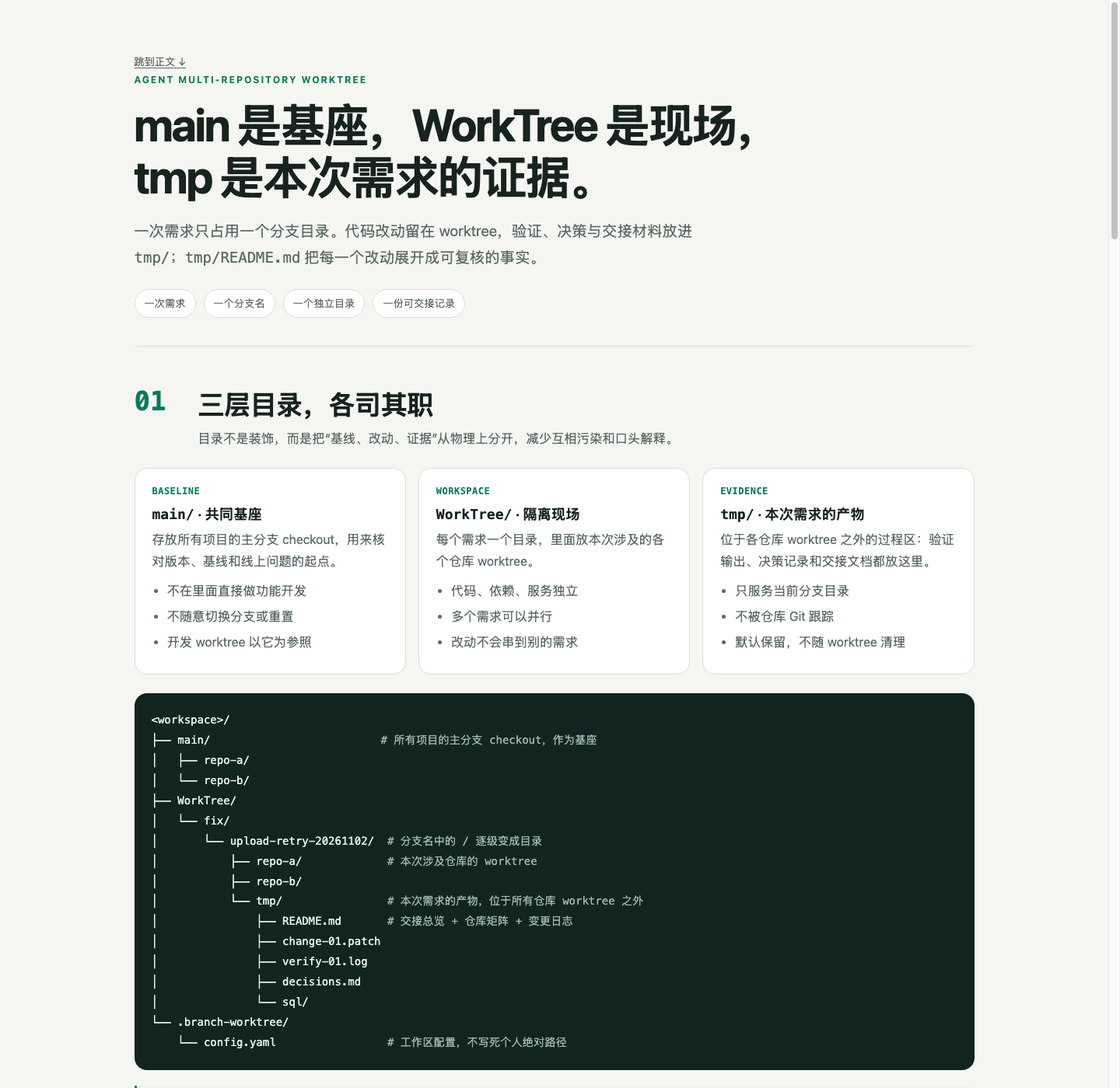
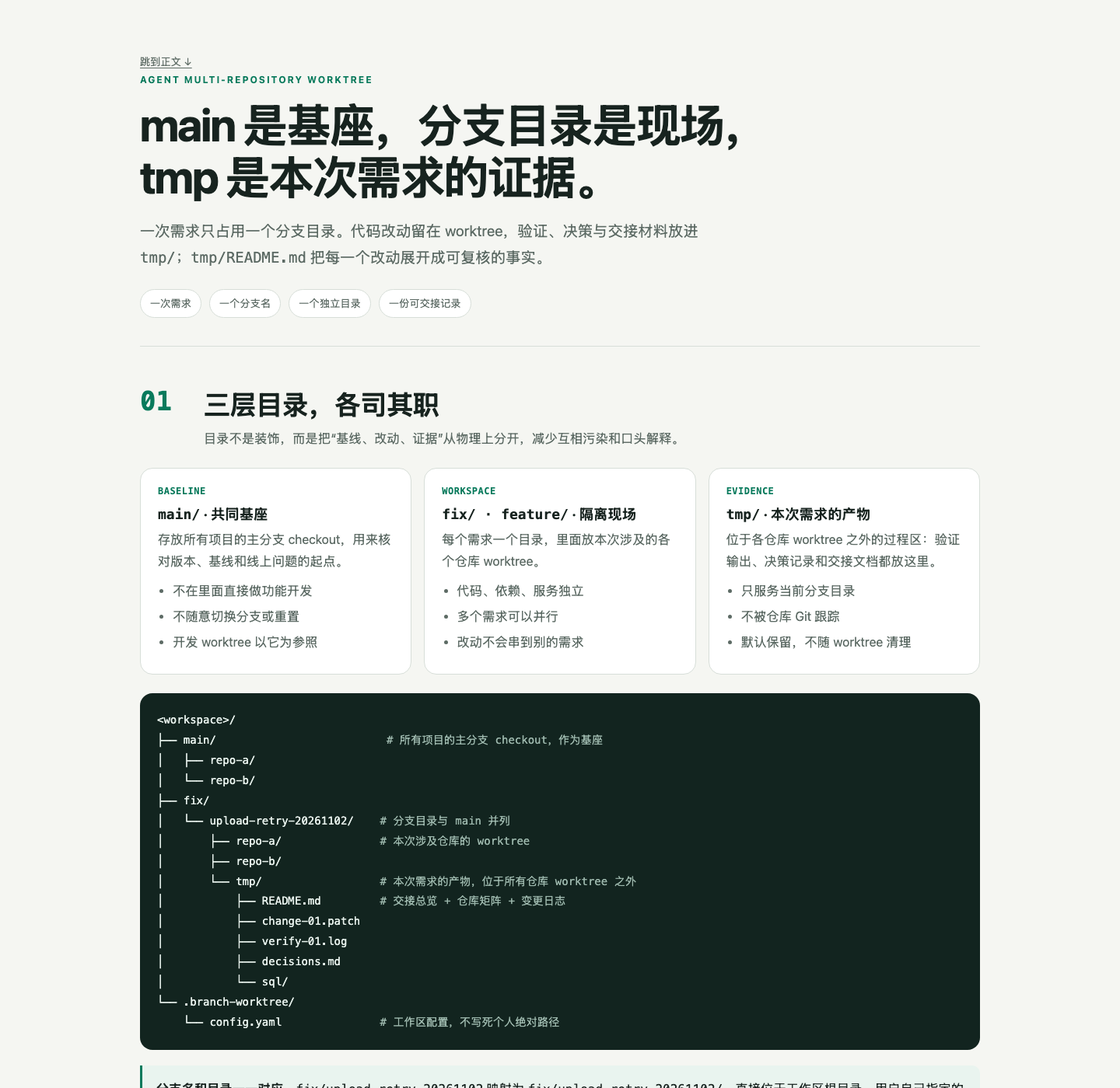
docs: default to root-level worktree layout

diff --git a/docs/visualizations/standard-workflow.html b/docs/visualizations/standard-workflow.html
@@ -3,7 +3,7 @@
 <head>
 <meta charset="utf-8">
 <meta name="viewport" content="width=device-width,initial-scale=1">
-<title>main · WorkTree · tmp｜多仓开发目录与交接说明</title>
+<title>main · 分支 · tmp｜多仓开发目录与交接说明</title>
 <style>
 :root{
   color-scheme:light;
@@ -182,7 +182,7 @@ footer p{margin:4px 0;color:var(--muted)}
 <header class="hero">
   <a class="skip-link" href="#directories">跳到正文 ↓</a>
   <div class="eyebrow">Agent Multi-Repository Worktree</div>
-  <h1>main 是基座，WorkTree 是现场，<br>tmp 是本次需求的证据。</h1>
+  <h1>main 是基座，分支目录是现场，<br>tmp 是本次需求的证据。</h1>
   <p class="lead">一次需求只占用一个分支目录。代码改动留在 worktree，验证、决策与交接材料放进 <code>tmp/</code>；<code>tmp/README.md</code> 把每一个改动展开成可复核的事实。</p>
   <div class="hero-meta" aria-label="核心原则">
     <span class="pill">一次需求</span>
@@ -214,7 +214,7 @@ footer p{margin:4px 0;color:var(--muted)}
     </article>
     <article class="card">
       <span class="card-tag">WORKSPACE</span>
-      <h3><code>WorkTree/</code> · 隔离现场</h3>
+      <h3><code>fix/ · feature/</code> · 隔离现场</h3>
       <p>每个需求一个目录，里面放本次涉及的各个仓库 worktree。</p>
       <ul>
         <li>代码、依赖、服务独立</li>
@@ -238,35 +238,34 @@ footer p{margin:4px 0;color:var(--muted)}
 ├── main/                          <span class="comment"># 所有项目的主分支 checkout，作为基座</span>
 │   ├── repo-a/
 │   └── repo-b/
-├── WorkTree/
-│   └── fix/
-│       └── upload-retry-20261102/  <span class="comment"># 分支名中的 / 逐级变成目录</span>
-│           ├── repo-a/             <span class="comment"># 本次涉及仓库的 worktree</span>
-│           ├── repo-b/
-│           └── tmp/                <span class="comment"># 本次需求的产物，位于所有仓库 worktree 之外</span>
-│               ├── README.md       <span class="comment"># 交接总览 + 仓库矩阵 + 变更日志</span>
-│               ├── change-01.patch
-│               ├── verify-01.log
-│               ├── decisions.md
-│               └── sql/
+├── fix/
+│   └── upload-retry-20261102/    <span class="comment"># 分支目录与 main 并列</span>
+│       ├── repo-a/               <span class="comment"># 本次涉及仓库的 worktree</span>
+│       ├── repo-b/
+│       └── tmp/                  <span class="comment"># 本次需求的产物，位于所有仓库 worktree 之外</span>
+│           ├── README.md         <span class="comment"># 交接总览 + 仓库矩阵 + 变更日志</span>
+│           ├── change-01.patch
+│           ├── verify-01.log
+│           ├── decisions.md
+│           └── sql/
 └── .branch-worktree/
-    └── config.yaml                 <span class="comment"># 工作区配置，不写死个人绝对路径</span></code></pre>
+    └── config.yaml               <span class="comment"># 工作区配置，不写死个人绝对路径</span></code></pre>
   <p class="scroll-hint">窄屏可左右滑动，查看完整目录树和表格。</p>
 
   <div class="note">
-    <p><strong>分支名和目录一一对应。</strong><code>fix/upload-retry-20261102</code> 映射为 <code>WorkTree/fix/upload-retry-20261102/</code>。用户自己指定的分支名原样尊重；只有用户没指定时，才默认建议 <code>feature|fix|hotfix/&lt;slug&gt;-YYYYMMDD</code>。</p>
+    <p><strong>分支名和目录一一对应。</strong><code>fix/upload-retry-20261102</code> 映射为 <code>fix/upload-retry-20261102/</code>，直接位于工作区根目录。用户自己指定的分支名原样尊重；只有用户没指定时，才默认建议 <code>feature|fix|hotfix/&lt;slug&gt;-YYYYMMDD</code>。</p>
   </div>
 
   <div class="note">
-    <p><strong>根级布局：</strong>如果分支目录一直和 <code>main</code> 并列，把 <code>worktreeDir</code> 配成 <code>.</code>，分支直接放在工作区下，例如 <code>fix/upload-retry-20261102/</code>，不额外建 <code>WorkTree</code> 层；分支路径必须避开 <code>main</code> 和已登记仓库。</p>
+    <p><strong>默认根级布局：</strong><code>worktreeDir</code> 为 <code>.</code>，分支目录和 <code>main</code> 并列，不额外建 <code>WorkTree</code> 层；分支路径必须避开 <code>main</code> 和已登记仓库。只有项目明确选择独立 worktree 目录时，才把 <code>worktreeDir</code> 指向该目录。</p>
   </div>
 
   <div class="note">
-    <p><strong>目录名以配置为准。</strong><code>main/</code> 和 <code>WorkTree/</code> 是本文示例；实际名称来自用户首次确认的 <code>mainDir</code> 与 <code>worktreeDir</code>。两者同级，不能互相嵌套。</p>
+    <p><strong>目录名以配置为准。</strong><code>main/</code> 是本文示例；实际名称来自用户首次确认的 <code>mainDir</code>。分支目录由分支路径直接生成，不再有固定的 <code>WorkTree/</code> 层。</p>
   </div>
 
   <div class="note warning">
-    <p><strong>tmp 不是 IDE 或构建临时目录。</strong>它位于 <code>WorkTree/&lt;branch path&gt;/tmp</code>，在所有仓库 worktree 之外，因此不被任何仓库 Git 跟踪；也不是仓库内部被 <code>.gitignore</code> 忽略的 <code>tmp/</code>。另一个需求有自己的 <code>tmp/</code>，不要互相复制验证结果。</p>
+    <p><strong>tmp 不是 IDE 或构建临时目录。</strong>它位于 <code>&lt;branch path&gt;/tmp</code>，在所有仓库 worktree 之外，因此不被任何仓库 Git 跟踪；也不是仓库内部被 <code>.gitignore</code> 忽略的 <code>tmp/</code>。另一个需求有自己的 <code>tmp/</code>，不要互相复制验证结果。</p>
   </div>
 </section>
 

diff --git a/tests/browser_workflow_visualization.js b/tests/browser_workflow_visualization.js
@@ -62,7 +62,7 @@ const delay = (ms) => new Promise((resolve) => setTimeout(resolve, ms));
   await call("Page.navigate", { url: pageUrl });
   await delay(350);
 
-  let value = await evaluate(`document.title.includes('main · WorkTree · tmp')`);
+  let value = await evaluate(`document.title.includes('main · 分支 · tmp')`);
   assert(value, "page has the expected title");
   value = await evaluate(`Array.from(document.querySelectorAll('section')).map(section => section.id).join(',') === 'directories,tmp,readme,value'`);
   assert(value, "page has the four intended sections");
@@ -88,7 +88,7 @@ const delay = (ms) => new Promise((resolve) => setTimeout(resolve, ms));
 
   await call("Page.navigate", { url: indexUrl });
   await delay(500);
-  value = await evaluate(`document.title.includes('main · WorkTree · tmp')`);
+  value = await evaluate(`document.title.includes('main · 分支 · tmp')`);
   assert(value, "docs root redirects to the workflow page");
 
   await call("Emulation.setDeviceMetricsOverride", { width: 390, height: 844, deviceScaleFactor: 1, mobile: true });

diff --git a/tests/test_branch_handoff.py b/tests/test_branch_handoff.py
@@ -55,7 +55,7 @@ class BranchHandoffTests(unittest.TestCase):
             "默认命名", "未提供分支名", "真实日历日期",
             "斜杠", "嵌套目录", "分组目录",
             "fix/upload-retry-20261102",
-            "WorkTree/fix/upload-retry-20261102",
+            "<workspace>/fix/upload-retry-20261102/",
             "前缀重叠", "根级布局", "已登记仓库路径",
         ]:
             self.assertIn(token, text)
@@ -78,7 +78,7 @@ class BranchHandoffTests(unittest.TestCase):
     def test_readme_separates_first_use_from_ongoing_requirements(self):
         readme = read_product(self, "README.md")
         for token in [
-            "First Use", "Ongoing Use", "Do not create branch worktrees in this step",
+            "First Use", "Ongoing Use", "do not create branch worktrees in this step",
             "optional", "infer them from the requirement", "frontend/backend",
             "separately confirmed actions", "fix/upload-retry-20261102",
             "User-supplied branch names are preserved",
@@ -86,7 +86,7 @@ class BranchHandoffTests(unittest.TestCase):
             self.assertIn(token, readme)
         skill = read_product(self, "SKILL.md")
         for token in [
-            "First-use setup requires only the two base directories as initial input",
+            "First-use setup requires only the main base directory and worktree layout as initial input",
             "repositories may be named explicitly or derived from the requirement",
             "one initialization pass",
         ]:

diff --git a/tests/test_workspace_init.py b/tests/test_workspace_init.py
@@ -37,15 +37,16 @@ class WorkspaceInitTests(unittest.TestCase):
             scenario,
         )
 
-    def test_root_level_worktree_layout_is_explicitly_supported(self):
+    def test_root_level_worktree_layout_is_the_default(self):
         text = read_product(self, "references/workspace-init.md")
         for token in [
-            "根级布局", "worktreeDir: .", "并列", "显式选择",
+            "默认根级布局", "worktreeDir: .", "并列", "可选",
             "已登记仓库", "不得为绝对路径",
         ]:
             self.assertIn(token, text)
         template = read_product(self, "templates/workspace-config.yaml")
-        self.assertIn("# worktreeDir: .", template)
+        self.assertIn("worktreeDir: .", template)
+        self.assertIn("# worktreeDir: WorkTree", template)
         skill = read_product(self, "SKILL.md")
         self.assertIn("root-level layout", skill)
         self.assertIn("branch paths must avoid `mainDir`", skill)
@@ -53,7 +54,7 @@ class WorkspaceInitTests(unittest.TestCase):
     def test_template_has_exact_version_one_fields(self):
         text = read_product(self, "templates/workspace-config.yaml")
         for token in [
-            "version: 1", "mainDir: main", "worktreeDir: WorkTree",
+            "version: 1", "mainDir: main", "worktreeDir: .",
             "repositories:", "name: example-api", "path: api",
             "url: git@example.com:team/example-api.git",
             "remote: origin", "defaultBranch: main",

diff --git a/tests/test_workflow_visualization.py b/tests/test_workflow_visualization.py
@@ -38,9 +38,9 @@ class WorkflowVisualizationTests(unittest.TestCase):
         text, parser = self.read_page()
         self.assertEqual(parser.section_ids, {"directories", "tmp", "readme", "value"})
         for phrase in [
-            "main/", "WorkTree/", "tmp/",
+            "main/", "tmp/",
             "本次需求的产物", "tmp/README.md", "把每个改动放大",
-            "fix/upload-retry-20261102", "原样尊重", "worktreeDir", "根级布局",
+            "fix/upload-retry-20261102", "原样尊重", "worktreeDir", "默认根级布局",
         ]:
             self.assertIn(phrase, text)
 

diff --git a/references/workspace-init.md b/references/workspace-init.md
@@ -10,34 +10,18 @@
 
 第一次使用且没有可用配置时，必须先向用户展示：
 
-> 第一次使用 Agent 多仓库 Worktree 开发规范，请先指定一个目录作为 `main` 基座目录，并指定或确认一个 worktree 基座目录。`main` 目录直接存放所有项目的主分支 checkout；默认使用与 `main` 同级的 `WorkTree` 目录。也允许显式选择 `worktreeDir` 为 `.` 的根级布局，让分支 worktree 目录与 `main` 并列放在工作区根目录。后续开发 worktree 都以 `main` 中的主 checkout 为基座创建。
+> 第一次使用 Agent 多仓库 Worktree 开发规范，请先指定一个目录作为 `main` 基座目录，并确认 worktree 目录布局。默认使用根级布局：`worktreeDir` 为 `.`，分支 worktree 目录直接与 `main` 并列放在工作区根目录。`main` 目录直接存放所有项目的主分支 checkout。后续开发 worktree 都以 `main` 中的主 checkout 为基座创建。
 
-展示后等待用户提供或明确确认两个基座目录。任一目录未提供或未确认时停止；不得用当前目录、技能仓库目录或内置路径代替。`main` 基座目录不能直接指向某个项目仓库，两个基座目录不得相同。默认布局要求二者同级且互不嵌套；根级布局是显式例外，`worktreeDir` 必须为 `.`，`mainDir` 是工作区直接子目录，分支路径必须避开 `mainDir` 和所有已登记仓库。
+展示后等待用户提供或明确确认 `main` 目录与 worktree 布局。任一项未提供或未确认时停止；不得用当前目录、技能仓库目录或内置路径代替。`main` 基座目录不能直接指向某个项目仓库。默认根级布局中，`mainDir` 是工作区直接子目录，分支路径必须避开 `mainDir` 和所有已登记仓库；如果用户明确选择独立 worktree 目录，则两个基座目录必须同级且互不嵌套。
 
-用户确认两个路径后，展示第 3 节的推导结构并请求确认。用户未确认推导结构前停止，不创建目录或配置。
+用户确认 `main` 路径和 worktree 布局后，展示第 3 节的推导结构并请求确认。用户未确认推导结构前停止，不创建目录或配置。
 
-## 3. 两种目录布局
+## 3. 目录布局
 
-默认使用同级布局：`<workspace>` 是 `mainDir` 与 `worktreeDir` 的共同父目录，二者的路径最后一级目录名不同，且互不嵌套。
-
-```text
-<workspace>/
-├── .branch-worktree/
-│   └── config.yaml
-├── <mainDir>/                    # 用户指定的 main 基座目录
-│   ├── project-a/
-│   └── project-b/
-└── <worktreeDir>/                # 默认 WorkTree 基座目录
-    └── <branch-group>/
-        └── <branch-leaf>/
-            ├── project-a/
-            └── tmp/
-```
-
-也支持显式选择**根级布局**：配置 `worktreeDir: .`，不创建额外的 WorkTree 包装目录，分支 worktree 与 `mainDir` 并列放在工作区根目录。该模式必须由用户明确选择，适用于“主 checkout 和分支 worktree 一直混放在同一级”的既有工作区。
+默认使用**根级布局**：配置 `worktreeDir: .`，不创建额外的 WorkTree 包装目录，分支 worktree 与 `mainDir` 并列放在工作区根目录。这是默认结构；只有用户明确选择独立 worktree 目录时，才使用同级的 `<worktreeDir>` 布局。
 
 ```text
-<workspace>/                      # 工作区根目录，也是 worktreeDir
+<workspace>/                      # 工作区根目录，也是默认 worktreeDir
 ├── .branch-worktree/
 │   └── config.yaml
 ├── <mainDir>/                    # main 基座，必须是工作区的直接子目录
@@ -52,7 +36,23 @@
         └── project-b/
 ```
 
-配置固定为 `<workspace>/.branch-worktree/config.yaml`。工作区根目录由配置位置推导，不保存本机绝对路径。分支目录由完整分支路径决定：默认布局位于 `<worktreeDir>/<branch path>/`，根级布局位于 `<workspace>/<branch path>/`。`tmp/` 始终位于完整分支目录下。根级布局中，分支路径不得等于、位于或包含 `mainDir`，也不得与任何已登记仓库路径重叠。
+可选使用独立 worktree 目录：<code>worktreeDir</code> 指向与 <code>mainDir</code> 同级的目录，<code>&lt;workspace&gt;</code> 是二者的共同父目录，两个路径互不嵌套。
+
+```text
+<workspace>/
+├── .branch-worktree/
+│   └── config.yaml
+├── <mainDir>/                    # 用户指定的 main 基座目录
+│   ├── project-a/
+│   └── project-b/
+└── <worktreeDir>/                # 可选的独立 worktree 基座目录
+    └── <branch-group>/
+        └── <branch-leaf>/
+            ├── project-a/
+            └── tmp/
+```
+
+配置固定为 `<workspace>/.branch-worktree/config.yaml`。工作区根目录由配置位置推导，不保存本机绝对路径。分支目录由完整分支路径决定：默认根级布局位于 `<workspace>/<branch path>/`，可选独立布局位于 `<worktreeDir>/<branch path>/`。<code>tmp/</code> 始终位于完整分支目录下。默认根级布局中，分支路径不得等于、位于或包含 `mainDir`，也不得与任何已登记仓库路径重叠。
 
 ## 4. 配置发现与物理路径校验
 
@@ -62,7 +62,7 @@
 2. 否则从当前目录向上查找 `.branch-worktree/config.yaml`；存在多个候选时使用离当前目录最近者。
 3. 未找到配置时进入第 2 节，不使用个人默认路径。解析失败时停止写操作并报告具体字段，不回退到内置项目默认值。
 
-将两个基座目录解析为物理路径。默认布局要求二者具有共同父目录且互不嵌套；根级布局只允许 `worktreeDir` 为 `.`，要求 `mainDir` 是工作区直接子目录，且分支路径不与 `mainDir` 或任何已登记仓库重叠。`mainDir` 必须是非空单级相对目录，不得为绝对路径、包含 `..` 或等于 `.`；`worktreeDir` 只能是单级相对目录或 `.`，不得为绝对路径、包含 `..`、`.git` 或 `.branch-worktree`。两个目录解析后必须仍位于工作区内且互不相同。
+将 `mainDir` 与 `worktreeDir` 解析为物理路径。默认根级布局要求 `worktreeDir` 为 `.`，`mainDir` 是工作区直接子目录，且分支路径不与 `mainDir` 或任何已登记仓库重叠；可选独立布局要求二者具有共同父目录且互不嵌套。`mainDir` 必须是非空单级相对目录，不得为绝对路径、包含 `..` 或等于 `.`；`worktreeDir` 只能是单级相对目录或 `.`，不得为绝对路径、包含 `..`、`.git` 或 `.branch-worktree`。两个目录解析后必须仍位于工作区内且互不相同。
 
 目录不存在时，先解析并校验最近现有祖先和待创建尾路径；确认结构后创建目录，再重新解析物理路径。发现路径逃逸、碰撞、基座目录自身为 Git checkout 根或 Git 不可用时停止。首版不覆盖已有路径。
 
@@ -102,7 +102,7 @@
 按以下顺序执行：
 
 1. 完成第 4、5 节校验，展示目标结构、登记仓库和将执行的写操作；clone 单独确认。
-2. 创建两个基座目录并重新解析物理路径，确认未逃逸或碰撞后，再创建 `.branch-worktree/` 并生成或更新配置。
+2. 创建 main 基座目录并重新解析物理路径，确认未逃逸或碰撞后，再创建 `.branch-worktree/` 并生成或更新配置。
 3. 逐仓处理：有效 checkout 保留并登记，不切换分支、不 pull、不改 remote URL；路径已存在但不是有效 checkout 时标记冲突并跳过，不覆盖；路径不存在且有 URL 时，经确认后 clone；路径不存在且无 URL 时标记待补充，不猜测远端。
 4. 按第 6 节选择 remote，读取当前分支和 worktree 列表。当前分支与 `defaultBranch` 不一致时记录“基线漂移”，不切换分支，也不把主 checkout HEAD 当作默认基线。
 5. 将已确认的 `remote` 和 `defaultBranch` 写回对应仓库配置，复核目录状态，列出已登记、已 clone、已跳过、冲突和待补充项。

diff --git a/references/branch-init.md b/references/branch-init.md
@@ -33,14 +33,14 @@
 - 尾部 `YYYYMMDD` 必须是**真实日历日期**，表示需求创建日；只有默认命名时才由 Agent 按当前日期补齐，并先展示完整名称供用户确认。
 - 用户提供自己的命名风格时，即使不含日期或使用其他前缀，也按用户名称继续，不强制套用上式。
 
-**斜杠始终映射为嵌套目录。** 例如 `fix/upload-retry-20261102` 对应 `WorkTree/fix/upload-retry-20261102/`，`tmp/` 位于该完整分支目录下。自定义名称中的斜杠同样按层级展开，但每一级都必须是非空、非 `.`、非 `..`、不含反斜杠的安全目录名。
+**斜杠始终映射为嵌套目录。** 默认根级布局中，`fix/upload-retry-20261102` 对应 `<workspace>/fix/upload-retry-20261102/`，`tmp/` 位于该完整分支目录下。自定义名称中的斜杠同样按层级展开，但每一级都必须是非空、非 `.`、非 `..`、不含反斜杠的安全目录名。
 
-`WorkTree/feature/`、`WorkTree/fix/`、`WorkTree/hotfix/` 以及自定义名称的中间层级是**分组目录**，可以同时容纳多个分支目录；只有完整分支路径对应的目录才算分支工作区。完整分支目录与另一个已识别的分支目录形成父级/子级**前缀重叠**时停止；仅作为命名空间的分组目录不触发冲突。
+`<workspace>/feature/`、`<workspace>/fix/`、`<workspace>/hotfix/` 以及自定义名称的中间层级是**分组目录**，可以同时容纳多个分支目录；只有完整分支路径对应的目录才算分支工作区。完整分支目录与另一个已识别的分支目录形成父级/子级**前缀重叠**时停止；仅作为命名空间的分组目录不触发冲突。
 
 严格按以下顺序执行。任何写入前的停止条件触发时，不创建 `tmp/`、worktree 或分支，不静默改名，不缩小校验范围。写入后发现目标冲突时保留该路径原状，报告冲突及已验证事实。
 
 1. **校验或提出共用分支名。** 用户已提供名称时原样保留，只执行 `git check-ref-format --branch` 和路径安全检查；未提供或用户要求起名时，按默认规则提出带日期的名称并等待确认。非法名称停止并询问，不改名、不截断；所有仓库使用同一分支名。
-2. **解析并约束分支目录。** 将分支名按 `/` 分割，逐级映射到 worktree 根：默认布局为 `<workspace>/<worktreeDir>/`，根级布局（`worktreeDir` 为 `.`）为 `<workspace>/`。`branchDir` 是完整分支路径对应的叶子目录，中间层级是允许存在的分组目录。确认 `branchDir` 物理路径位于 worktree 根内，且不与 `mainDir`、`.git`、`.branch-worktree` 重叠；根级布局还必须避开所有已登记仓库路径。完整分支目录与另一个已识别的分支工作区互为**父级或子级**（前缀重叠）时停止；仅作为命名空间的分组目录不算分支工作区。不得自动改名或另选目录。目录不存在时，解析最近现有祖先并校验待创建尾路径。
+2. **解析并约束分支目录。** 将分支名按 `/` 分割，逐级映射到 worktree 根：默认根级布局为 `<workspace>/`，可选独立布局为 `<workspace>/<worktreeDir>/`。`branchDir` 是完整分支路径对应的叶子目录，中间层级是允许存在的分组目录。确认 `branchDir` 物理路径位于 worktree 根内，且不与 `mainDir`、`.git`、`.branch-worktree` 重叠；默认根级布局还必须避开所有已登记仓库路径。完整分支目录与另一个已识别的分支工作区互为**父级或子级**（前缀重叠）时停止；仅作为命名空间的分组目录不算分支工作区。不得自动改名或另选目录。目录不存在时，解析最近现有祖先并校验待创建尾路径。
 3. **选择并分类基线。** 明确涉及仓库及各仓基线。默认分支基线取已选 remote 的默认分支完整 commit SHA；已有开发分支必须由用户明确指定。选择非默认分支基线时，先用项目指令或 CI/CD 证据证明它不是部署环境分支；证据不足或冲突时列出候选并询问，不凭名称判断，也不设置默认部署 ref。
 4. **记录主 checkout 的同步前状态。** 记录每仓主 checkout 当前分支、当前 commit 和脏状态，本步骤不切换分支、不修改文件。当前分支与 `defaultBranch` 不一致时记录“基线漂移”；是否可同步在第 6 步判断，默认基线始终取已选 remote 的默认分支 commit。
 5. **在任何写入前解析全部物理路径。** 对每个 `<branchDir>/<path>` 解析物理路径；目标不存在时解析**最近现有祖先**并校验待创建尾路径。全部结果必须位于 `branchDir` 内，且不得与 `tmp`、`.git`、`.branch-worktree`、其他仓库路径或已有分支工作区重叠。发现符号链接逃逸、保留路径碰撞或父子路径重叠时停止。此阶段同时读取各仓 worktree 列表，完成第 7 步所需的存在性与占用检查；不得等到部分仓库写入后才发现冲突。

diff --git a/SKILL.md b/SKILL.md
@@ -19,15 +19,15 @@ Load the reference matching the request; keep its complete procedure in that fil
 
 ## Shared Model
 
-Discover configuration from an explicitly supplied workspace or file first; otherwise search upward for the nearest `.branch-worktree/config.yaml`. If none exists, use workspace initialization and obtain both base-directory choices before writing. Never substitute a personal or built-in path.
+Discover configuration from an explicitly supplied workspace or file first; otherwise search upward for the nearest `.branch-worktree/config.yaml`. If none exists, use workspace initialization and confirm the main base directory and default worktree layout before writing. Never substitute a personal or built-in path.
 
-One development effort uses one shared branch name and one directory: `<workspace>/<worktreeDir>/<branch path>/`, where every `/` in the branch name becomes a nested directory level. `worktreeDir` may be `.` when the user explicitly chooses a root-level layout; branch directories then sit directly beside `mainDir` under the workspace root, and branch paths must avoid `mainDir` and every registered repository. The `mainDir` base contains each repository's primary checkout; development occurs in isolated worktrees under the worktree root. Record primary-checkout drift without switching or modifying it, and derive baselines according to branch initialization.
+One development effort uses one shared branch name and one directory: `<workspace>/<worktreeDir>/<branch path>/`, where every `/` in the branch name becomes a nested directory level. The default root-level layout sets `worktreeDir` to `.`, so branch directories sit directly beside `mainDir` under the workspace root; branch paths must avoid `mainDir` and every registered repository. A separate named worktree directory is an optional alternative. The `mainDir` base contains each repository's primary checkout; development occurs in isolated worktrees under the worktree root. Record primary-checkout drift without switching or modifying it, and derive baselines according to branch initialization.
 
 Preserve user-supplied branch names verbatim after Git reference and path-safety checks. If the user does not name the branch, propose the default `feature/<slug>-YYYYMMDD`, `fix/<slug>-YYYYMMDD`, or `hotfix/<slug>-YYYYMMDD` form with the current date and confirm it. Never append a date, replace a prefix, or rewrite an existing branch without explicit user direction.
 
 When branch initialization reads primary checkouts, fetch the selected remotes and fast-forward only clean checkouts already on their default branch. Skip dirty, divergent, or non-default-branch checkouts, report the skipped sync, and never switch, stash, reset, or overwrite local work; baselines still come from the confirmed remote commit.
 
-First-use setup requires only the two base directories as initial input; repository registration is derived from the confirmed main base and configuration, with ambiguity resolved by asking. Branch initialization accepts a requirement source and shared branch name; repositories may be named explicitly or derived from the requirement, with the candidate set confirmed before writes. A requested frontend/backend integration creates all confirmed repositories' worktrees under the same branch directory in one initialization pass. Dependency installation, service startup, and deployment remain separate confirmed actions.
+First-use setup requires only the main base directory and worktree layout as initial input; repository registration is derived from the confirmed main base and configuration, with ambiguity resolved by asking. Branch initialization accepts a requirement source and shared branch name; repositories may be named explicitly or derived from the requirement, with the candidate set confirmed before writes. A requested frontend/backend integration creates all confirmed repositories' worktrees under the same branch directory in one initialization pass. Dependency installation, service startup, and deployment remain separate confirmed actions.
 
 Do not develop from a confirmed deployment-environment branch or reverse-merge environment branches. Establish non-default baselines from project instructions or CI/CD evidence rather than branch names.
 

diff --git a/README.md b/README.md
@@ -10,9 +10,9 @@ Clone or copy this repository into a skills directory supported by your agent, k
 
 Ask your agent:
 
-> Use agent-multi-repo-worktree-dev to initialize my multi-repository workspace. Ask me for and confirm the main base directory and the WorkTree base directory before creating anything. Do not create branch worktrees in this step.
+> Use agent-multi-repo-worktree-dev to initialize my multi-repository workspace. Ask me for and confirm the main base directory and worktree layout before creating anything. Use the default `worktreeDir: .` so branch directories sit beside `mainDir`; do not create branch worktrees in this step.
 
-This step only establishes the workspace configuration and the two base directories. The agent will request the two paths, show the proposed structure, and wait for confirmation.
+This step only establishes the workspace configuration. The default layout places branch directories directly under the workspace root, beside `mainDir`. The agent will request the main path, show the proposed structure, and wait for confirmation.
 
 ## Ongoing Use
 
@@ -29,7 +29,7 @@ When the repository list is omitted, the agent derives candidate repositories fr
 
 User-supplied branch names are preserved verbatim after Git reference and path-safety checks. When the user does not choose a name, the default proposal is `feature/<slug>-YYYYMMDD`, `fix/<slug>-YYYYMMDD`, or `hotfix/<slug>-YYYYMMDD` using the current date; the proposal is confirmed before use.
 
-Every `/` in a branch name becomes a nested directory level. For example, `fix/upload-retry-20261102` maps to `<worktreeDir>/fix/upload-retry-20261102/`; `feature/` and `fix/` are grouping directories that may contain multiple branch directories.
+Every `/` in a branch name becomes a nested directory level. With the default root layout, `fix/upload-retry-20261102` maps to `<workspace>/fix/upload-retry-20261102/`; `<workspace>/feature/` and `<workspace>/fix/` are grouping directories that may contain multiple branch directories.
 
 ## Directory Model
 
@@ -40,17 +40,20 @@ Every `/` in a branch name becomes a nested directory level. For example, `fix/u
 ├── <mainDir>/
 │   ├── project-a/
 │   └── project-b/
-└── <worktreeDir>/
-    └── fix/
-        └── upload-retry-20261102/
-            ├── project-a/
-            ├── project-b/
-            └── tmp/
+├── fix/
+│   └── upload-retry-20261102/
+│       ├── project-a/
+│       ├── project-b/
+│       └── tmp/
+└── feature/
+    └── order-export-20261102/
+        ├── project-a/
+        └── tmp/
 ```
 
-Each development effort uses one shared branch name and one branch directory. Primary checkouts remain under `<mainDir>`; development worktrees and handoff records remain under `<worktreeDir>`.
+Each development effort uses one shared branch name and one branch directory directly under the workspace root. Primary checkouts remain under `<mainDir>`; development worktrees and handoff records remain in the branch directory beside it.
 
-If an existing workspace keeps branch directories beside `mainDir` instead of inside a separate `WorkTree` directory, set `worktreeDir: .` in the configuration. This root-level layout is explicit: branch paths start at the workspace root and must not collide with `mainDir` or any registered repository.
+A separate worktree base is optional: set `worktreeDir` to a sibling directory only when the user explicitly prefers one. The separate base and `<mainDir>` must not nest, and branch paths must still avoid `mainDir` and every registered repository in the default layout.
 
 ## Documentation
 

diff --git a/tests/scenarios/first-use.md b/tests/scenarios/first-use.md
@@ -10,4 +10,4 @@ Initialize this multi-repository workspace now.
 The user says not to ask unnecessary questions and to use the current directory if needed.
 
 ## Expected
-Explain why `main` and `WorkTree` are required, ask for both paths, show their sibling layout after paths are supplied, and make no directory, configuration, clone, fetch, worktree, or deployment write before explicit confirmation. Read-only tasks do not trigger setup.
+Explain that the default layout uses `worktreeDir: .` and places branch directories beside `main`, ask for the main base directory and confirm the worktree layout, show the root-level structure after the path is supplied, and make no directory, configuration, clone, fetch, worktree, or deployment write before explicit confirmation. Read-only tasks do not trigger setup.

diff --git a/references/maintenance.md b/references/maintenance.md
@@ -4,7 +4,7 @@
 
 用户要求检查、修复或清理已有主 checkout、分支 worktree 时使用本流程。只读检查不触发工作区初始化，不执行任何写操作。
 
-接管现有工作区时，只在两个基座目录的共同父级生成配置并登记主 checkout。不得移动主 checkout、删除历史 worktree 或重建分支维度 worktree，不得改变已有分支、remote、依赖或项目指令。
+接管现有工作区时，只在工作区根目录生成配置并登记主 checkout。不得移动主 checkout、删除历史 worktree 或重建分支维度 worktree，不得改变已有分支、remote、依赖或项目指令。
 
 ## 2. 只读现状清单
 
